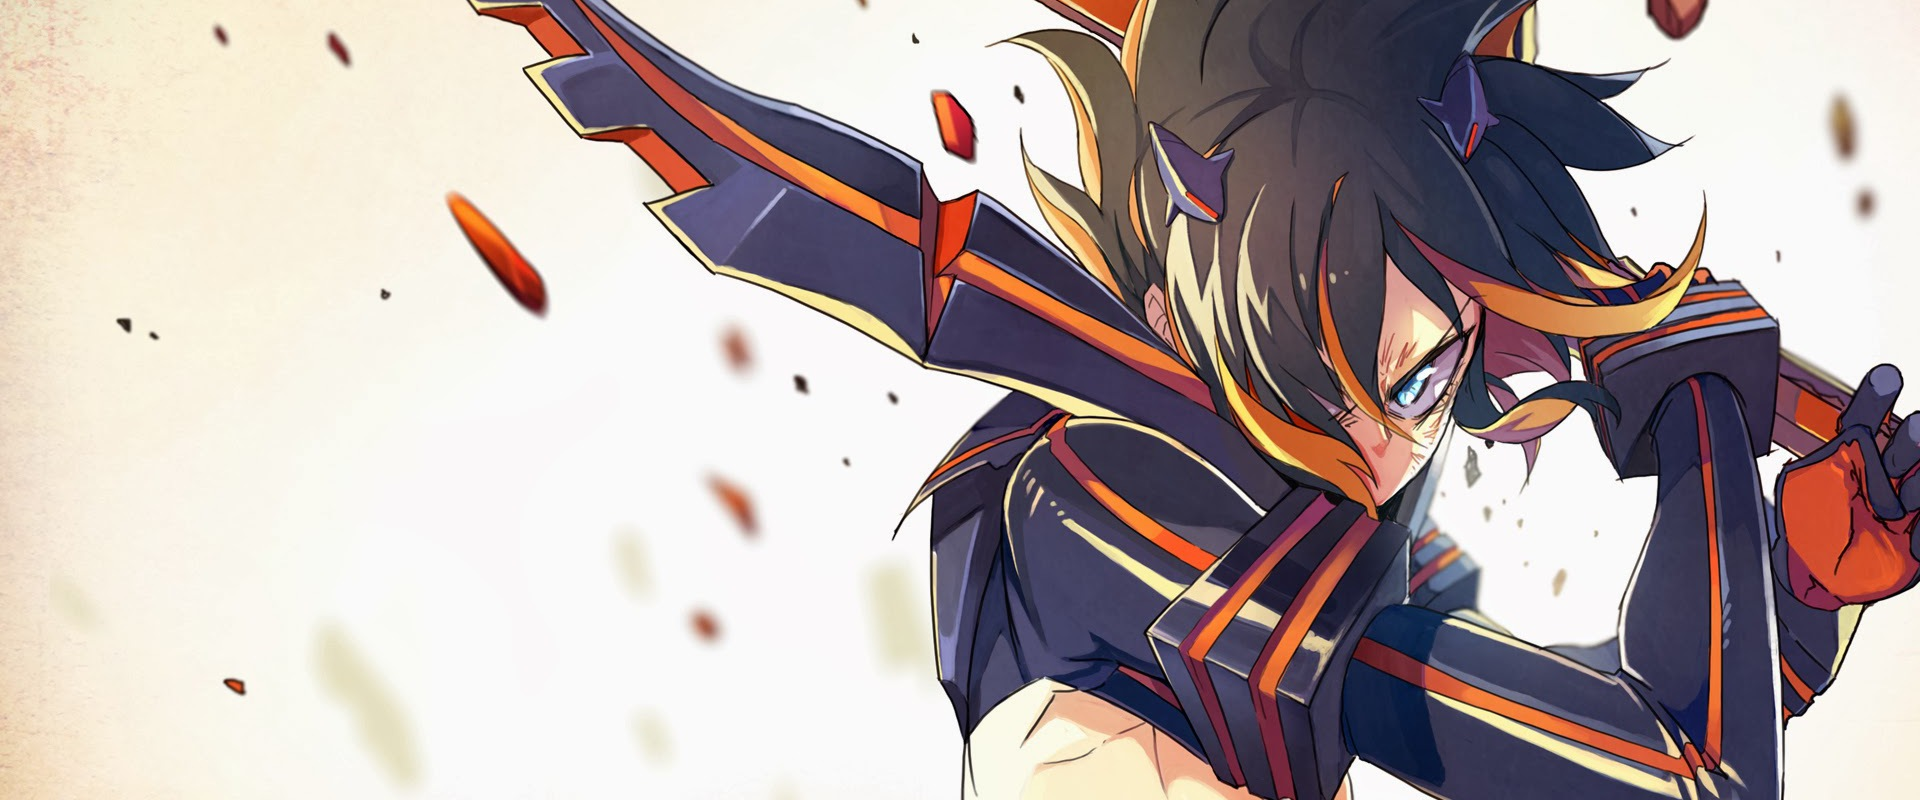
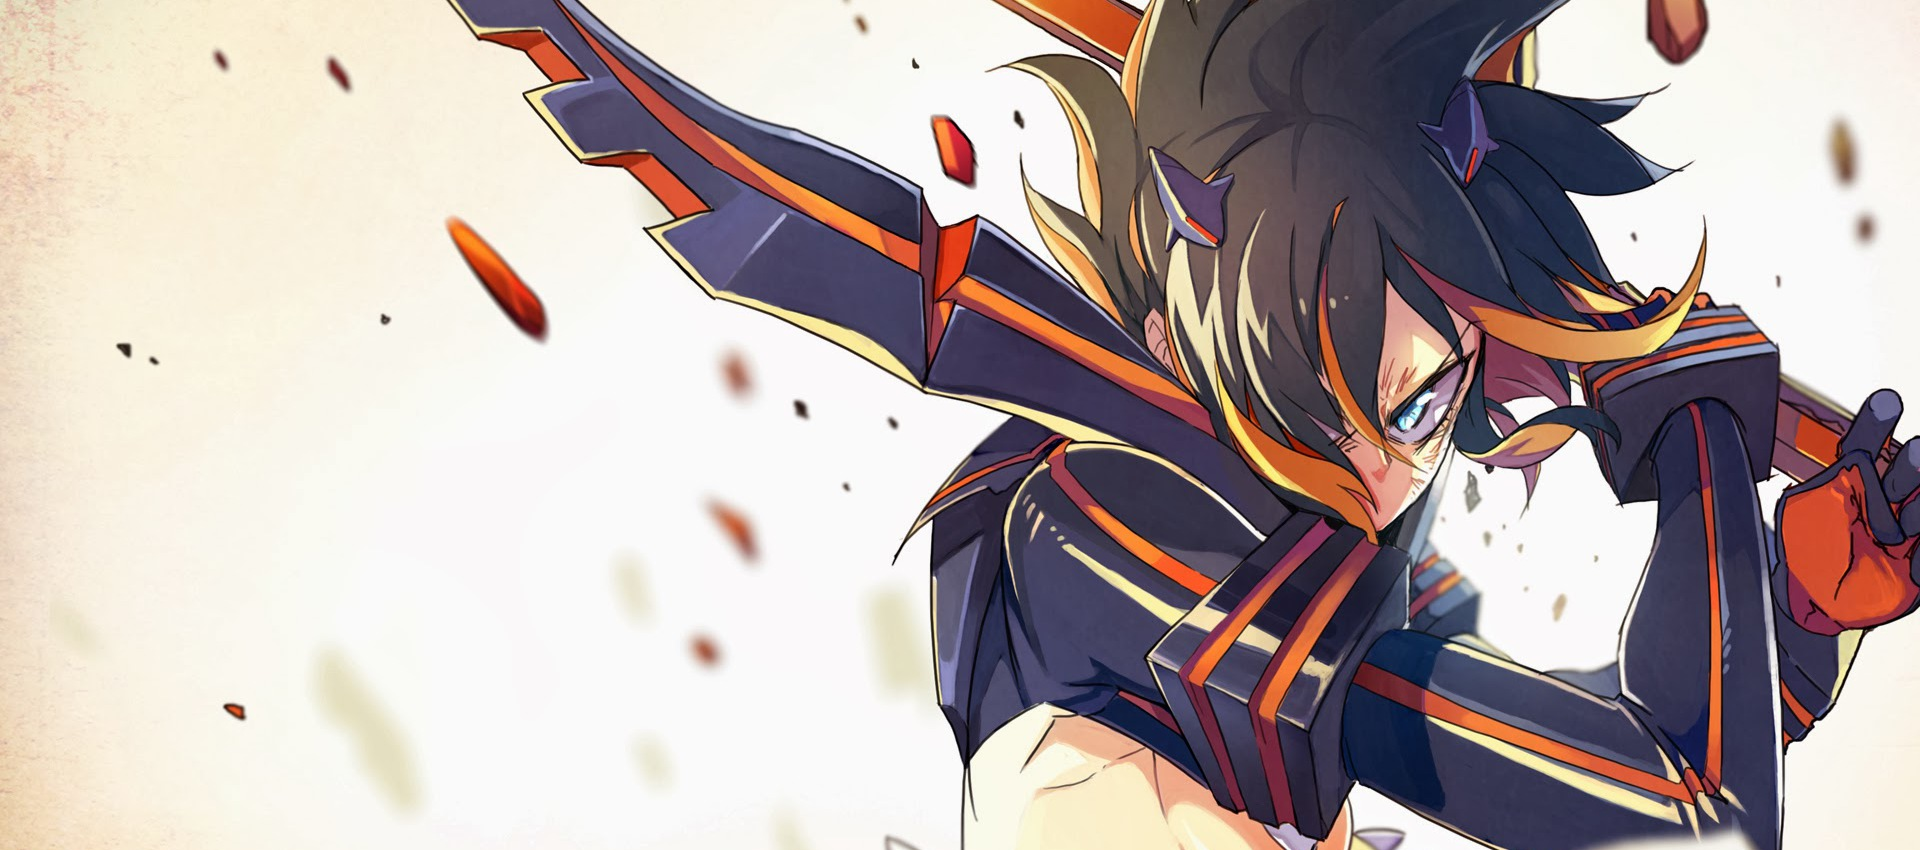
Changed :medium cover_image size

diff --git a/app/assets/stylesheets/_animes.scss b/app/assets/stylesheets/_animes.scss
@@ -1,5 +1,4 @@
 .anime {
-  background-color: #F9F9F9;
   .header-image {
     background-color: #1b2023;
     img {
@@ -14,25 +13,22 @@
       left: 90px;
     }
     @media screen and (min-width: 40em) and (max-width: 63.9375em) {
-      top: -200px;
+      top: 100px;
+      position: absolute;
     }
   }
   .anime-name {
     h1 {
-      top: -200px;
-      position: relative;
       @media screen and (max-width: 39.9375em) {
         text-align: center;
         background-color: transparent;
-        top: 10px
-
+        top: 10px;
       }
       @media screen and (min-width: 40em) and (max-width: 63.9375em) {
-        top: -130px;
+        top: 150px;
         background-color: gray;
         font-size: 1.9em;
-        text-align: center;
-
+        position: absolute;
       }
     }
   }
@@ -41,9 +37,17 @@
       @media screen and (max-width: 39.9375em) {
         text-align: center;
       }
+      @media screen and (min-width: 40em) and (max-width: 63.9375em) {
+        top: 20px;
+        position: relative;
+      }
     }
   }
   .anime-info {
+    @media screen and (min-width: 40em) and (max-width: 63.9375em) {
+      top: 10px;
+      position: relative;
+    }
     .bar {
       background-color: #33332D;
       color: #ffffff;

diff --git a/app/models/anime.rb b/app/models/anime.rb
@@ -42,6 +42,6 @@
   has_attached_file :cover_image, styles: { large: "200x288#", medium: "162x230>", thumb: "100x100>" }, default_url: "/images/:style/missing.png"
   validates_attachment_content_type :cover_image, content_type: /\Aimage\/.*\Z/
 
-  has_attached_file :header_image, styles: { large: "1920x600#", medium: "1920x800#" }, default_url: "/images/:style/missing.png"
+  has_attached_file :header_image, styles: { large: "1920x600#", medium: "1920x850#" }, default_url: "/images/:style/missing.png"
   validates_attachment_content_type :header_image, content_type: /\Aimage\/.*\Z/
 end
